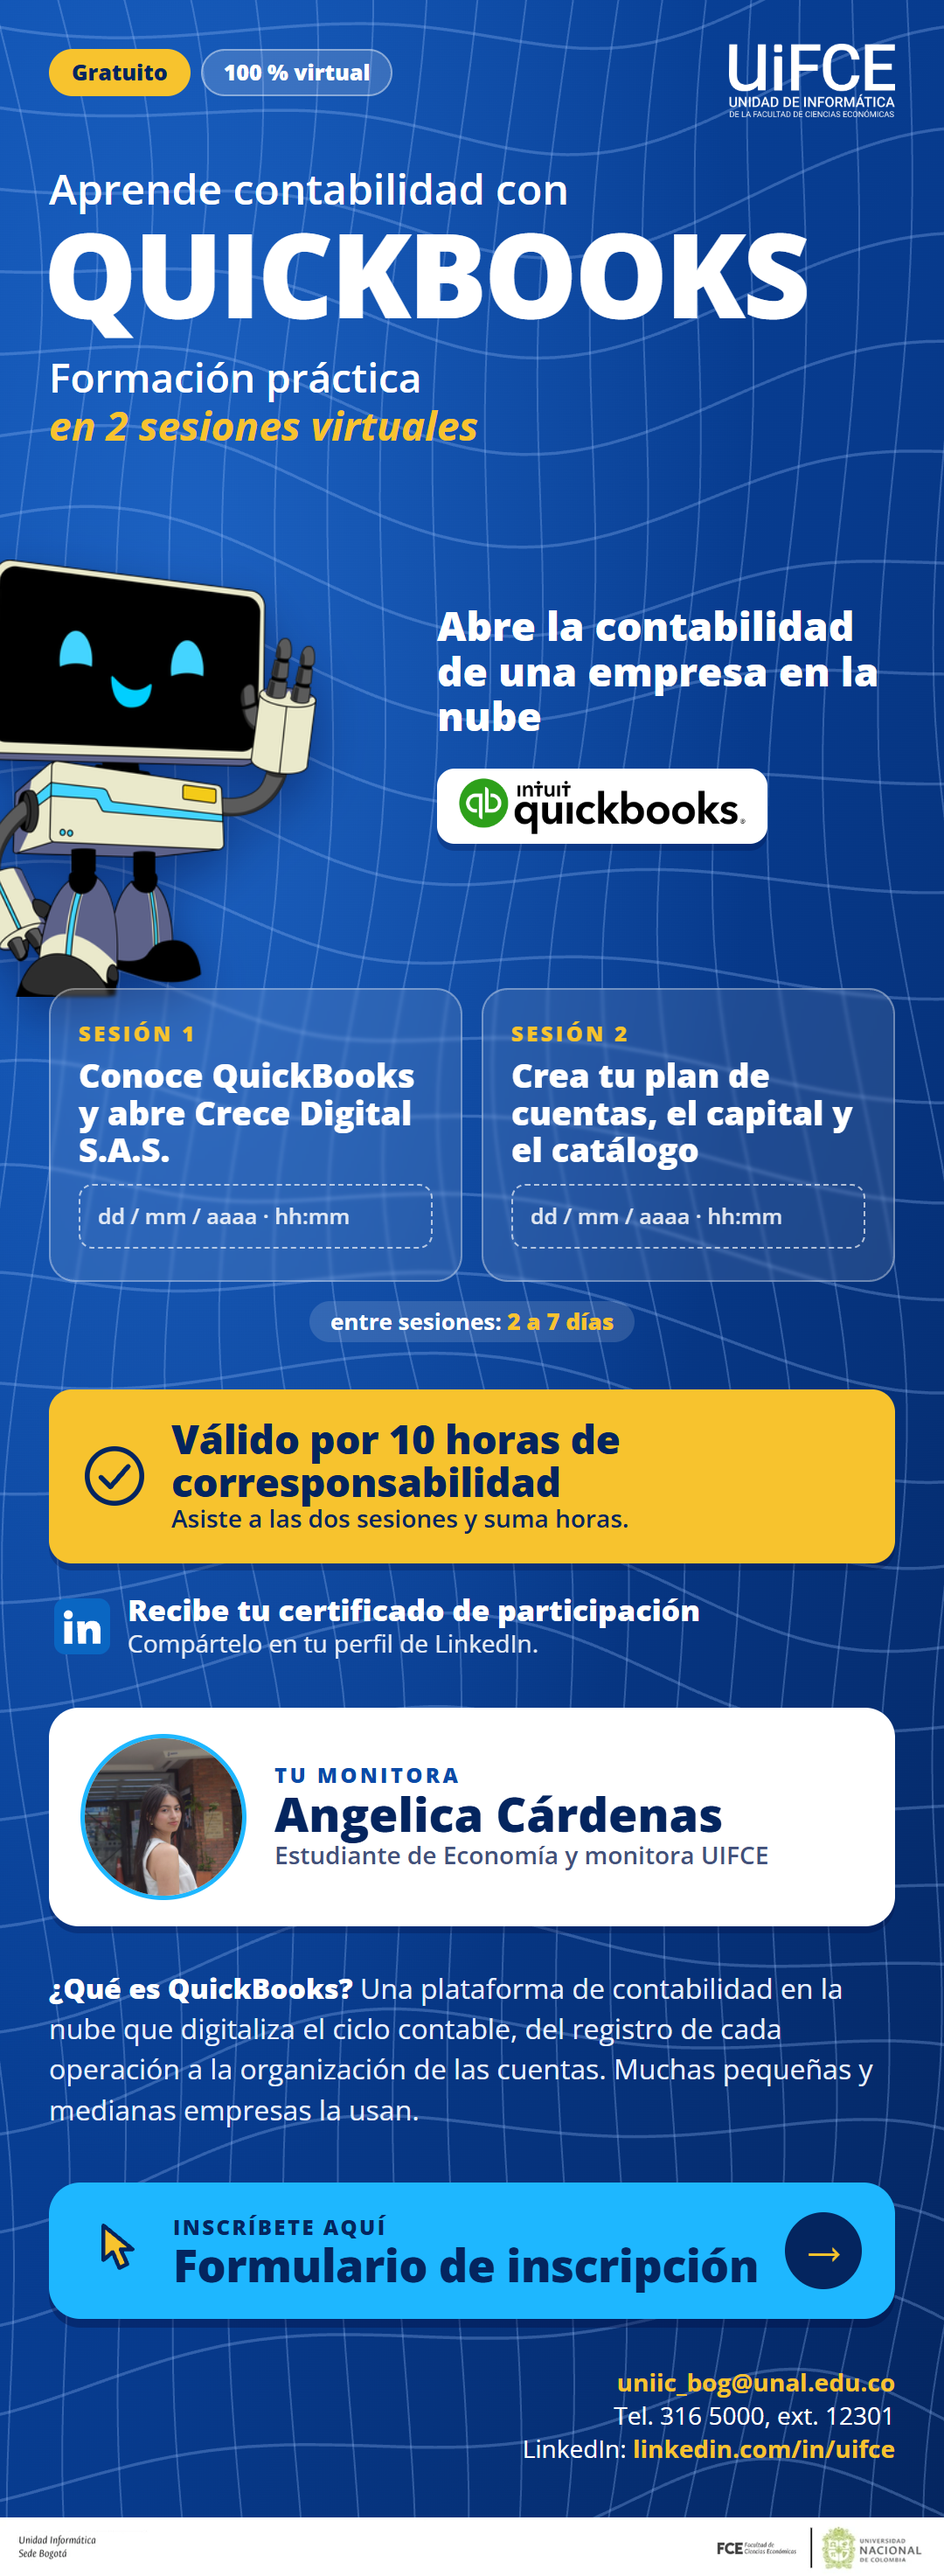
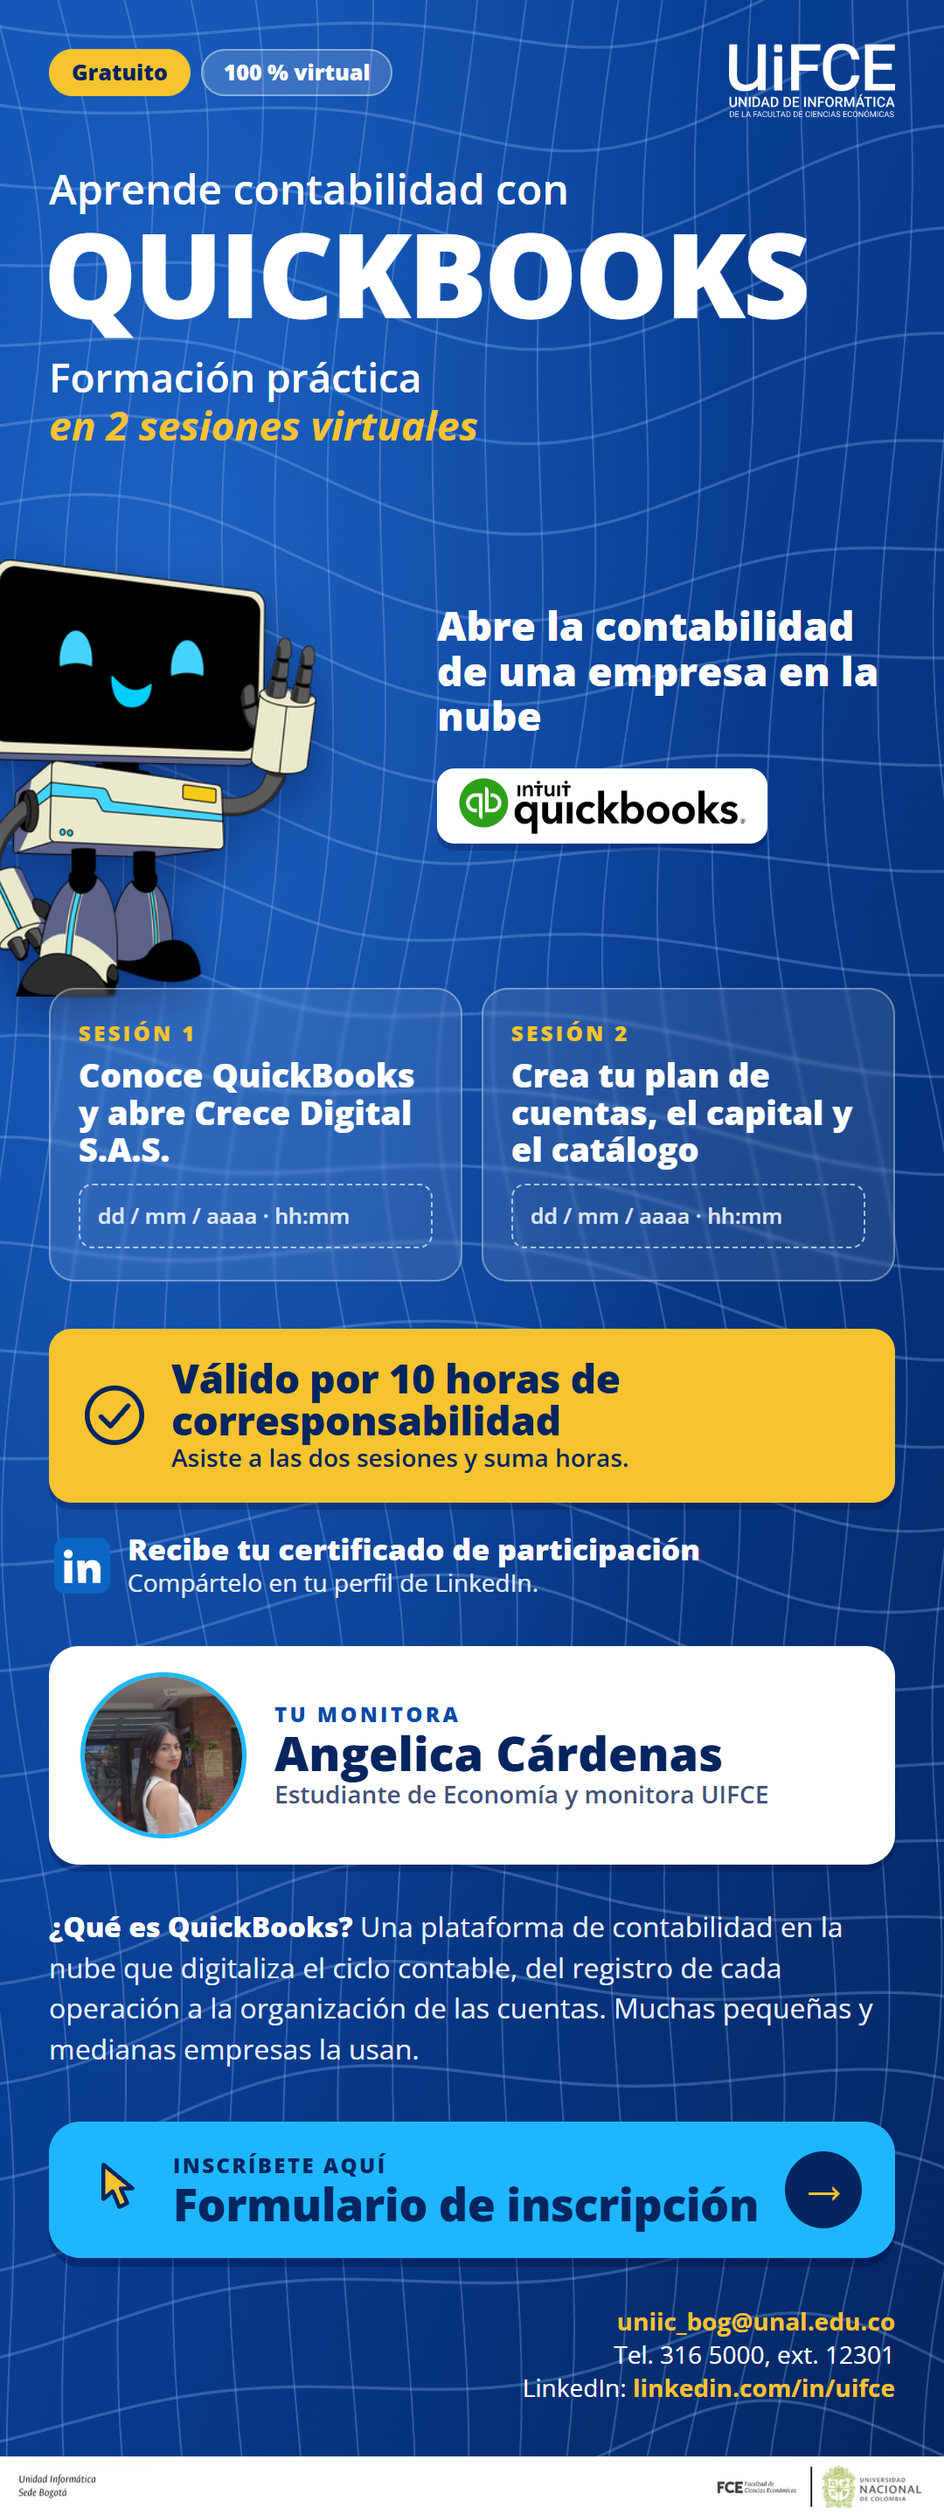
Propuesta 4: quita 'entre sesiones: 2 a 7 días'

diff --git a/index.html b/index.html
@@ -56,12 +56,12 @@
   </section>
   <section class="panel" id="p4" role="tabpanel" aria-labelledby="tab-4" hidden>
     <div class="actions"><a href="propuesta-4/infografia.png" download>Descargar PNG ↓</a></div>
-    <div class="frame" id="frame4"><iframe id="if4" src="propuesta-4/index.html" title="Propuesta 4" scrolling="no" width="1080" height="2946"></iframe></div>
+    <div class="frame" id="frame4"><iframe id="if4" src="propuesta-4/index.html" title="Propuesta 4" scrolling="no" width="1080" height="2877"></iframe></div>
   </section>
 </main>
 <script>
   var tabs=document.querySelectorAll('nav button'), panels={1:document.getElementById('p1'),2:document.getElementById('p2'),3:document.getElementById('p3'),4:document.getElementById('p4')};
-  var SIZES={1:[1080,3669],2:[1080,4587],3:[1080,3391],4:[1080,2946]};
+  var SIZES={1:[1080,3669],2:[1080,4587],3:[1080,3391],4:[1080,2877]};
   function fit(){
     var cw=document.documentElement.clientWidth;
     [1,2,3,4].forEach(function(n){

diff --git a/propuesta-4/index.html b/propuesta-4/index.html
@@ -85,7 +85,6 @@
     <article class="card"><small>Sesión 1</small><h3>Conoce QuickBooks y abre Crece Digital S.A.S.</h3><div class="date">dd / mm / aaaa · hh:mm</div></article>
     <article class="card"><small>Sesión 2</small><h3>Crea tu plan de cuentas, el capital y el catálogo</h3><div class="date">dd / mm / aaaa · hh:mm</div></article>
   </div>
-  <div class="gap">entre sesiones: <b>2 a 7 días</b></div>
 
   <div class="hours">
     <svg viewBox="0 0 50 50" fill="none" stroke="#04255f" stroke-width="3.6" stroke-linecap="round" stroke-linejoin="round"><circle cx="25" cy="25" r="20"/><path d="M15 26l7 7 13-15"/></svg>
